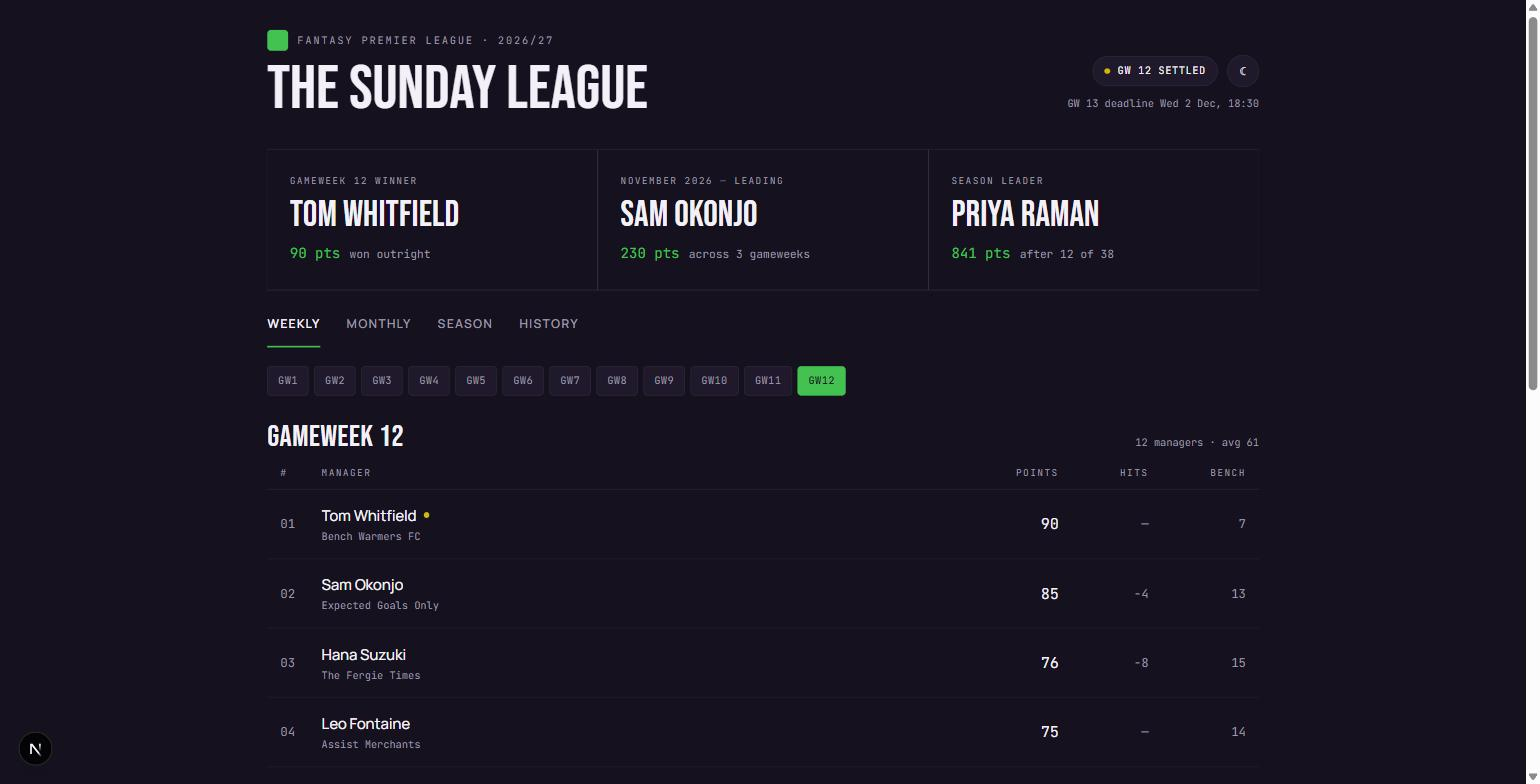
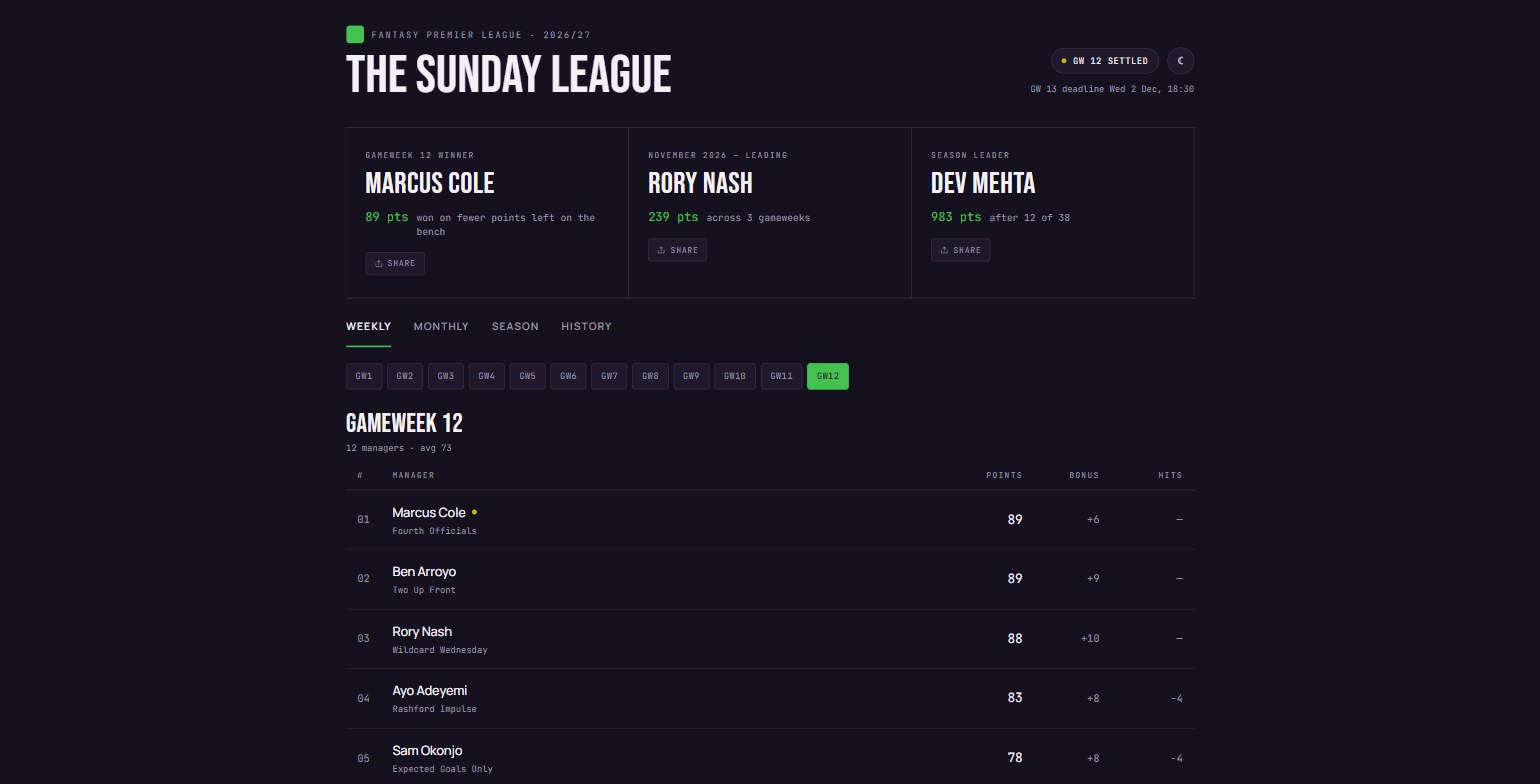
Refresh the README screenshots and stop the hero value wrapping
The screenshots still showed POINTS / HITS / BENCH, which is neither the
current column set nor what a fresh clone gets now that bench is off by
default. They also predate the share buttons, so the feature had no picture
anywhere in the README.

Retaken from the demo fixtures at the same framing, with the dev-tools badge
left out this time.

Retaking them exposed a real bug: the hero value had no flex-none, so a long
tie-break explanation squeezed "89 pts" onto two lines. The old screenshot
said "won outright" and never showed it. It would have appeared on any week
someone won on hits or bench.

Also adds scripts/verify-bonus.mjs. Bonus is the one column the app derives
rather than reads, and points come from FPL and are authoritative -- so a
mistake in counting picks leaves points correct and quietly corrupts only
bonus, with nothing to see. The script reconstructs gross points the same way
lib/settle.ts does and compares against FPL's own figure; a total that
reproduces theirs proves the multipliers, and therefore the bonus split.

It reports mismatches as informational before a gameweek settles, because
FPL's history endpoint lags its own standings until then -- observed two
points behind during GW1, which is also why the poller waits for data_checked
before banking a score.

diff --git a/components/hero.tsx b/components/hero.tsx
@@ -44,7 +44,8 @@ function Cell({ cell, onShare }: { cell: HeroCell; onShare?: () => void }) {
       <div className="label">{cell.label}</div>
       <div className="display text-[38px] tracking-[0.01em]">{cell.name}</div>
       <div className="flex items-baseline gap-2.5 font-mono text-[12px] text-dim">
-        <span className="text-[15px] text-accent">{cell.value}</span>
+        {/* Never wraps: a tie-break explanation is long enough to squeeze it. */}
+        <span className="flex-none whitespace-nowrap text-[15px] text-accent">{cell.value}</span>
         <span>{countdown ? `first kickoff in ${countdown}` : cell.sub}</span>
       </div>
 
